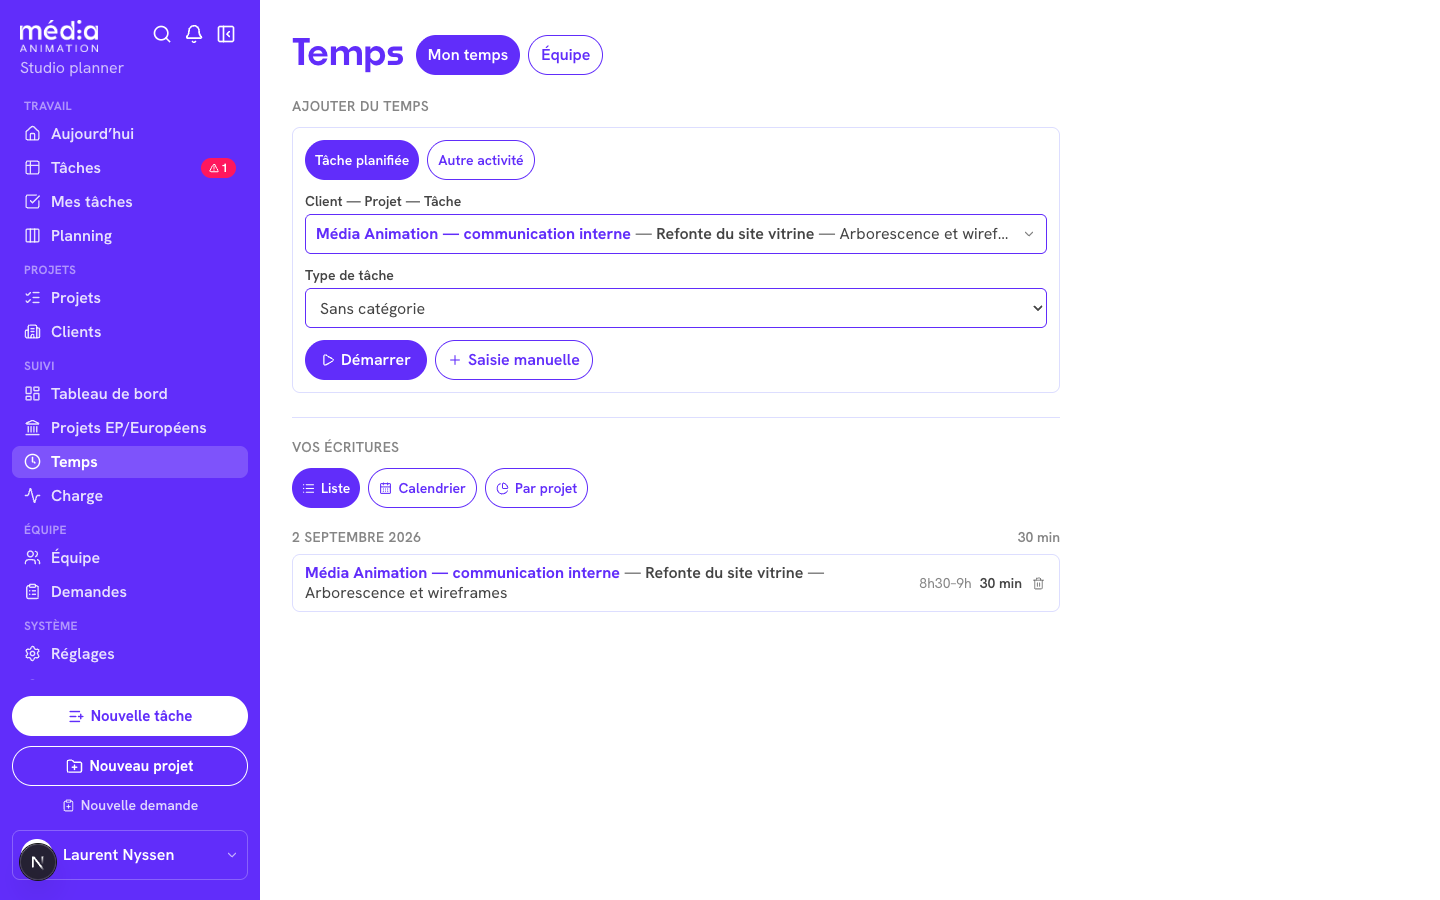
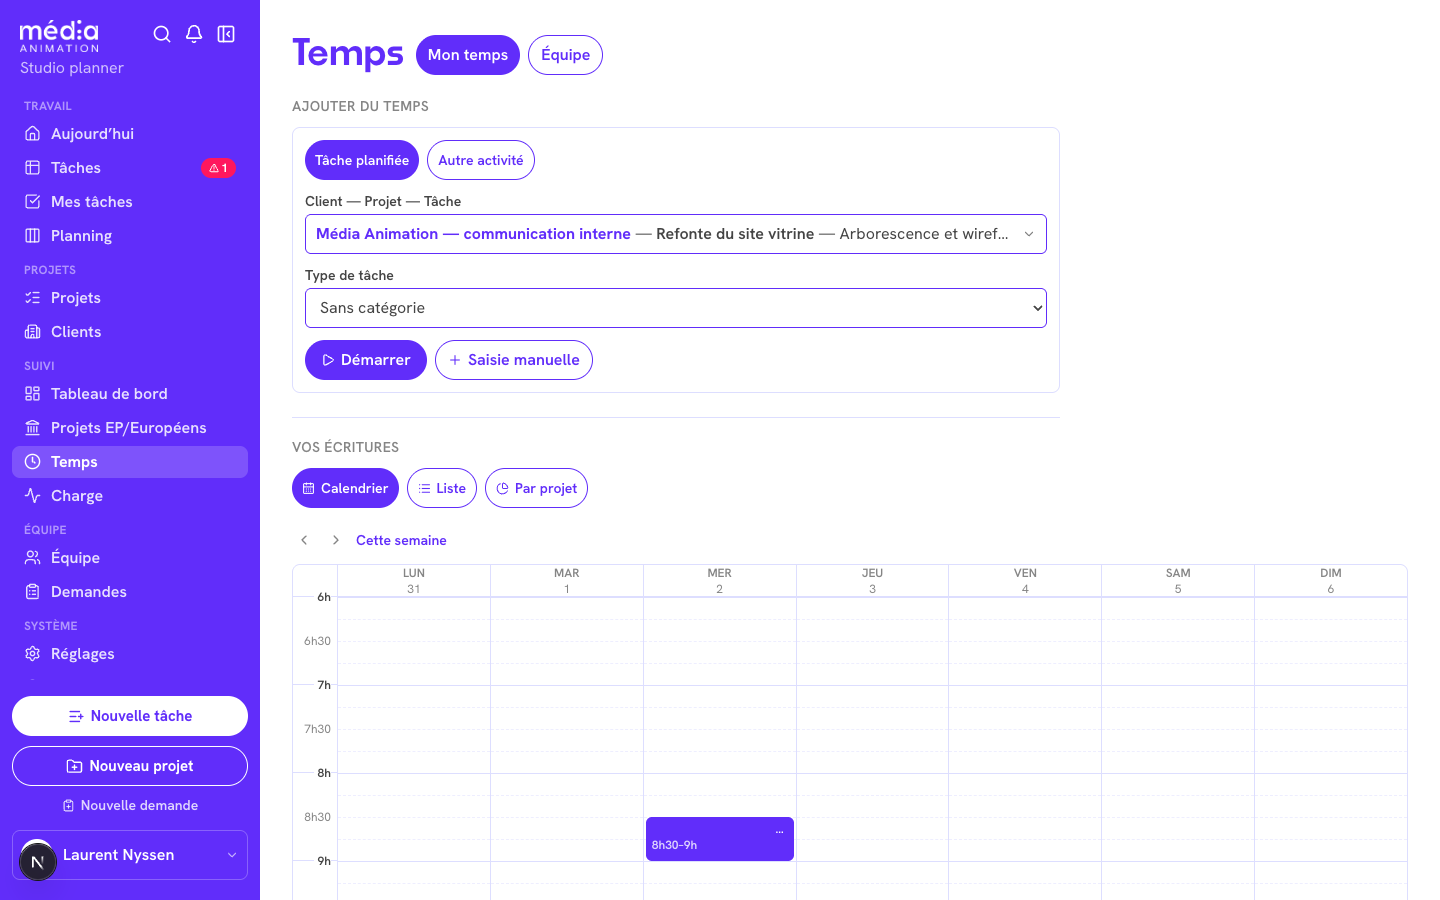
Calendrier en premier sur Temps, plutôt que Liste

diff --git a/src/app/(app)/temps/temps-view.tsx b/src/app/(app)/temps/temps-view.tsx
@@ -53,7 +53,7 @@ export function TempsView({
   const router = useRouter();
   const [, startTransition] = useTransition();
   const [tab, setTab] = useState<"mine" | "team">("mine");
-  const [mineView, setMineView] = useState<"list" | "calendar" | "summary">("list");
+  const [mineView, setMineView] = useState<"list" | "calendar" | "summary">("calendar");
   const [context, setContext] = useState<EntryContextValue>({
     taskId: tasks[0]?.id ?? null,
     studioId: tasks[0]?.studioId ?? studios[0]?.id ?? "",
@@ -328,19 +328,19 @@ export function TempsView({
             <div className="flex gap-2">
             <button
               type="button"
-              onClick={() => setMineView("list")}
-              aria-pressed={mineView === "list"}
-              className={`flex items-center gap-1.5 px-2.5 py-1 text-xs font-semibold ${mineView === "list" ? primaryButtonClass : secondaryButtonClass}`}
-            >
-              <List size={13} /> Liste
-            </button>
-            <button
-              type="button"
               onClick={() => setMineView("calendar")}
               aria-pressed={mineView === "calendar"}
               className={`flex items-center gap-1.5 px-2.5 py-1 text-xs font-semibold ${mineView === "calendar" ? primaryButtonClass : secondaryButtonClass}`}
             >
               <CalendarDays size={13} /> Calendrier
+            </button>
+            <button
+              type="button"
+              onClick={() => setMineView("list")}
+              aria-pressed={mineView === "list"}
+              className={`flex items-center gap-1.5 px-2.5 py-1 text-xs font-semibold ${mineView === "list" ? primaryButtonClass : secondaryButtonClass}`}
+            >
+              <List size={13} /> Liste
             </button>
             <button
               type="button"
